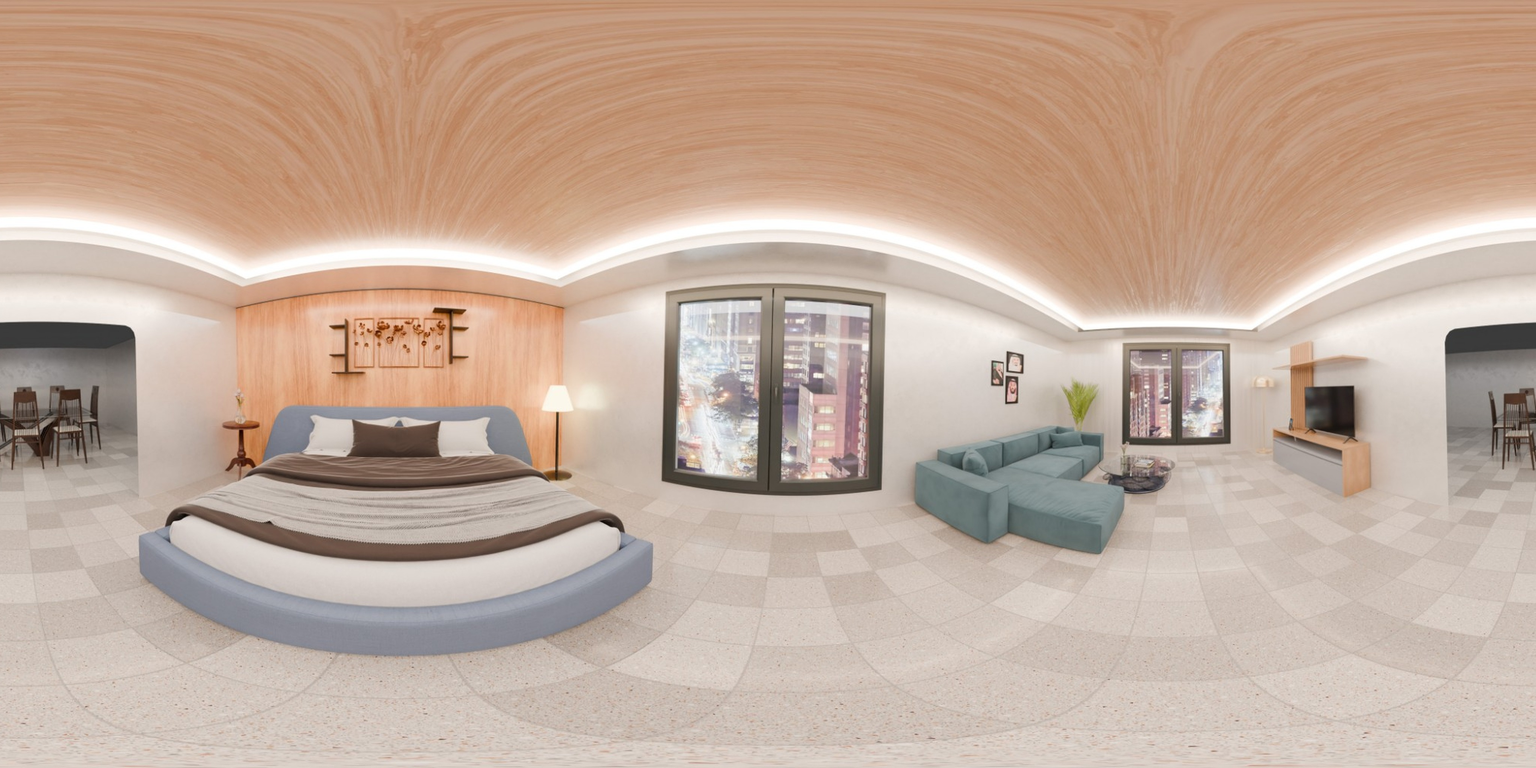
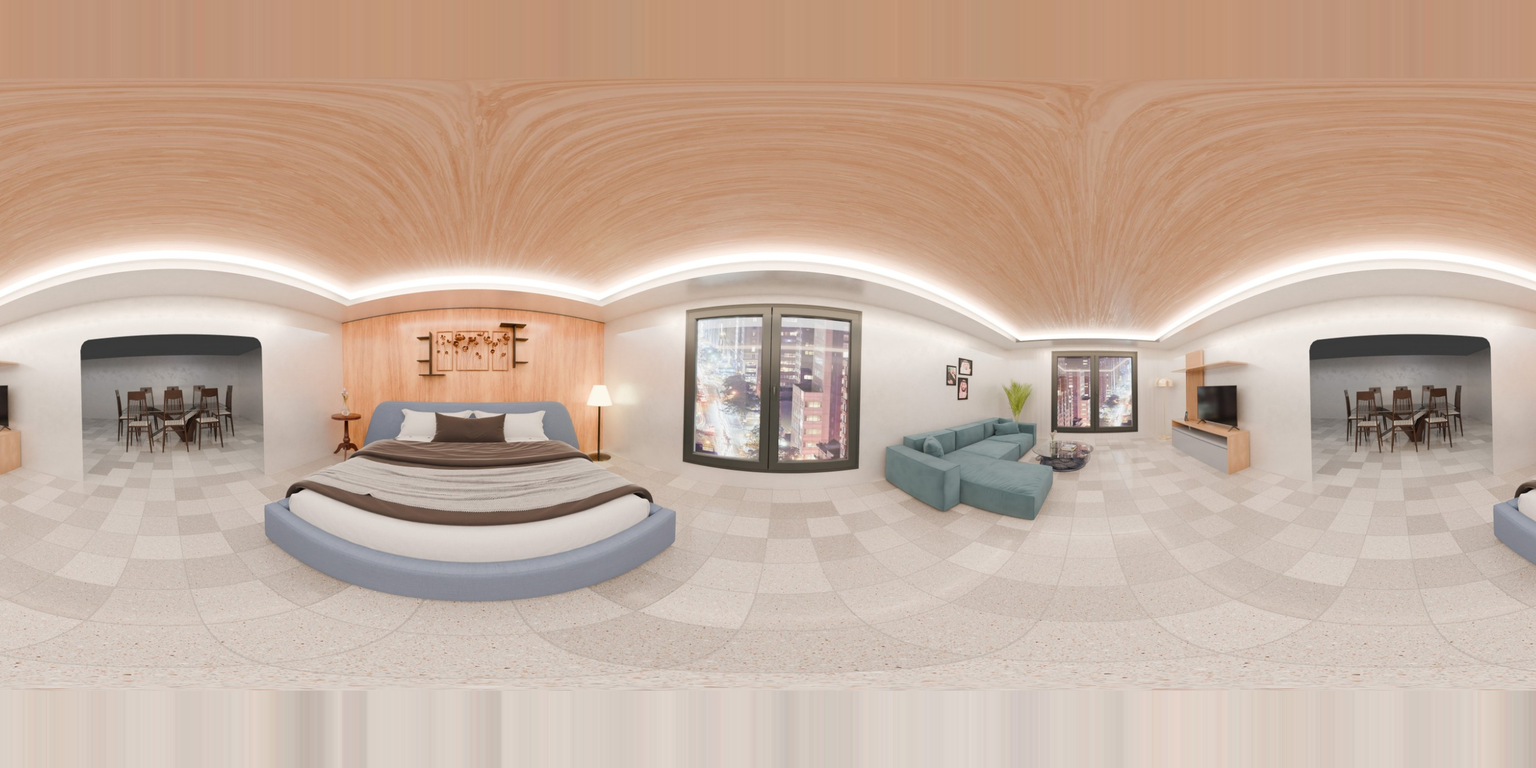
Size the room to the blind, not the other way round
The client's window was wider than the one the blind was built for, so the
blind sat small inside it. The blind cannot be resized any more than it can be
moved - it is geometry at a fixed distance from a fixed camera, compiled into
the bundle.

So scale the room. An equirectangular image is linear in longitude and
latitude, so scaling it about its centre scales the room's angular size
directly, as though the camera had stepped back; the blind, being geometry
rather than image, does not change. scene_zoom does that, filling the margins
by tiling sideways (a panorama is a loop, so it is seamless) and by repeating
the top and bottom rows.

Settled at 1.25 after trying 1.5, which overshot - the blind then overhung the
window and the room visibly bent. This is a cheat, not a re-render, and it
costs sharpness because the visible area is resampled twice.

Measured the reference off the captured wooden room so the client can be given
a spec rather than another round of guessing. For 4096x2048: window centred at
x=2048 exactly, y~1005, outer frame ~420 px wide (10.3% of width, 36.9 deg) and
~435 px tall (21.2% of height, 38.2 deg). A room rendered to that needs neither
scene_center nor scene_zoom and keeps all its detail.

diff --git a/README.md b/README.md
@@ -233,8 +233,44 @@ the one the blind hangs in. `scene_center` says where that window sits in the
 degrees). Measure it by opening the image and reading off the window's centre;
 get it wrong and the blind hangs on a wall.
 
-Pick a window at least as wide as the captured one (about 10% of the panorama
-width, ~36 degrees). A narrower one and the blind overhangs it.
+### Matching the window's size: `scene_zoom`
+
+Getting the window in front of the blind is only half of it. The blind's size
+on screen is fixed too - it is real geometry, a fixed distance from a fixed
+camera - so a room whose window is wider than the captured one leaves the blind
+looking lost in it, and a narrower one leaves the blind overhanging.
+
+Again the room is what can move. An equirectangular image is linear in
+longitude and latitude, so scaling it about its centre scales the room's
+angular size directly, as though the camera had stepped back:
+
+```json
+"scene_zoom": 1.25
+```
+
+`rescale()` shrinks the panorama by that factor and fills the margins - sideways
+by tiling (a panorama is a loop, so it is seamless) and top and bottom by
+repeating the edge rows, which is what the poles look like anyway. Those
+margins sit behind and above the camera. The window stays a true projection.
+
+Keep it gentle. Past about 1.4 the room visibly bends, because this is a cheat
+and not a re-render, and every step also costs sharpness - the visible area is
+resampled twice.
+
+### What to ask for instead
+
+Measured off the captured wooden room, which is the convention all eight
+follow. For a **4096 x 2048** panorama:
+
+| | |
+|---|---|
+| Window centre | x = 2048 (exactly 50% of width), y ~ 1005 (on the horizon) |
+| Window outer frame | ~420 px wide (10.3% of width, 36.9 deg) |
+| | ~435 px tall (21.2% of height, 38.2 deg) |
+
+A room rendered to that needs neither `scene_center` nor `scene_zoom`, and
+loses none of its sharpness. It is worth asking for before a whole range is
+produced.
 
 ### Renderer sharpness
 
